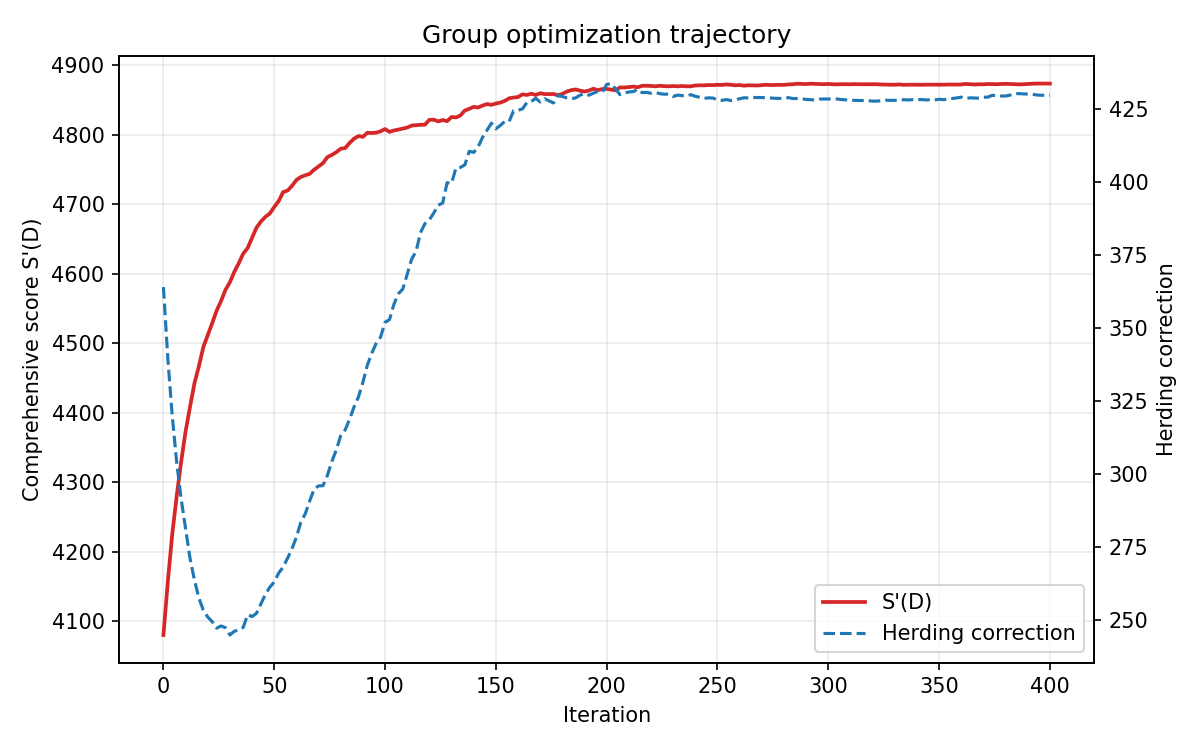
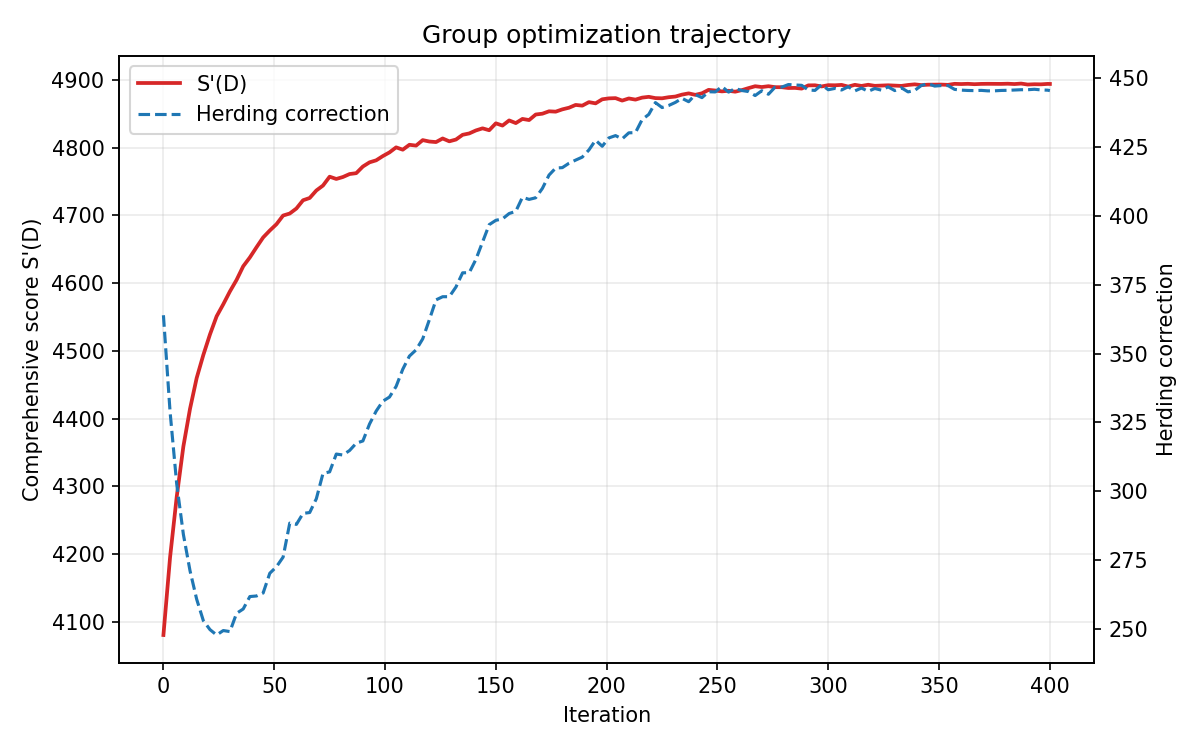
xxx

diff --git a/calculate_my_mask.py b/calculate_my_mask.py
@@ -76,20 +76,30 @@ def parse_args() -> argparse.Namespace:
         default="resnet50",
         help="mask 保存路径中的模型名称",
     )
-    parser.add_argument("--exchange-iterations", type=int, default=400)
-    parser.add_argument("--exchange-batch-size", type=int, default=64)
-    parser.add_argument("--exchange-min-batch-size", type=int, default=2)
-    parser.add_argument("--exchange-eval-interval", type=int, default=3)
+    parser.add_argument("--exchange-iterations", type=int, default=500)
+    parser.add_argument(
+        "--exchange-batch-size",
+        type=int,
+        default=64,
+        help="kr<=50 时的初始 batch_size；kr>50 时自动减半",
+    )
+    parser.add_argument(
+        "--exchange-min-batch-size",
+        type=int,
+        default=2,
+        help="kr<=50 时的最小 batch_size；kr>50 时自动减半",
+    )
+    parser.add_argument("--exchange-eval-interval", type=int, default=2)
     parser.add_argument(
         "--exchange-candidate-pool-multiplier",
         type=float,
-        default=1.5,
+        default=2,
         help="候选池大小倍率，按当前 batch_size 的倍率分别构造子集内外候选池",
     )
     parser.add_argument(
         "--exchange-batch-adjust-patience",
         type=int,
-        default=5,
+        default=8,
         help="连续多少次 eval 最优解不提升后才调整 batch_size",
     )
     return parser.parse_args()
@@ -354,7 +364,7 @@ def select_exchange_mask(
     dds_static_scores: np.ndarray | None = None,
     exchange_iterations: int = 200,
     exchange_batch_size: int = 64,
-    exchange_min_batch_size: int = 4,
+    exchange_min_batch_size: int = 2,
     exchange_eval_interval: int = 10,
     exchange_candidate_pool_multiplier: float = 3.0,
     exchange_batch_adjust_patience: int = 3,
@@ -525,8 +535,9 @@ def select_exchange_mask(
     eval_steps = [0]
 
     eval_every = max(1, int(exchange_eval_interval))
-    cur_batch_size = max(1, int(exchange_batch_size))
-    min_batch_size = max(1, int(exchange_min_batch_size))
+    batch_scale = 1.0 if keep_ratio <= 50 else 0.5
+    cur_batch_size = max(1, int(exchange_batch_size * batch_scale))
+    min_batch_size = max(1, int(exchange_min_batch_size * batch_scale))
     candidate_pool_multiplier = max(1.0, float(exchange_candidate_pool_multiplier))
     batch_adjust_patience = max(1, int(exchange_batch_adjust_patience))
     if cur_batch_size < min_batch_size:
@@ -639,12 +650,8 @@ def select_exchange_mask(
                 stale_eval_count = 0
 
         iter_bar.set_postfix(
-            iter=int(step + 1),
             best_fit=f"{float(best_item['fitness']):.4f}",
-            last_eval_fit=f"{last_eval_fit:.4f}",
-            approx_rank=f"{approx_total_rank:.2f}",
             batch_size=int(cur_batch_size),
-            eval_every=eval_every,
         )
 
     final_mask = np.asarray(best_item["mask"], dtype=np.uint8)
@@ -676,8 +683,8 @@ def select_exchange_mask(
         "lambda_mean": float(lambda_mean),
         "exchange_iterations": int(exchange_iterations),
         "exchange_batch_size": int(cur_batch_size),
-        "exchange_batch_size_init": int(exchange_batch_size),
-        "exchange_min_batch_size": int(min_batch_size),
+        "exchange_batch_size_init": int(max(1, int(exchange_batch_size * batch_scale))),
+        "exchange_min_batch_size": int(max(1, int(exchange_min_batch_size * batch_scale))),
         "exchange_eval_interval": int(eval_every),
         "exchange_candidate_pool_multiplier": float(candidate_pool_multiplier),
         "exchange_batch_adjust_patience": int(batch_adjust_patience),
